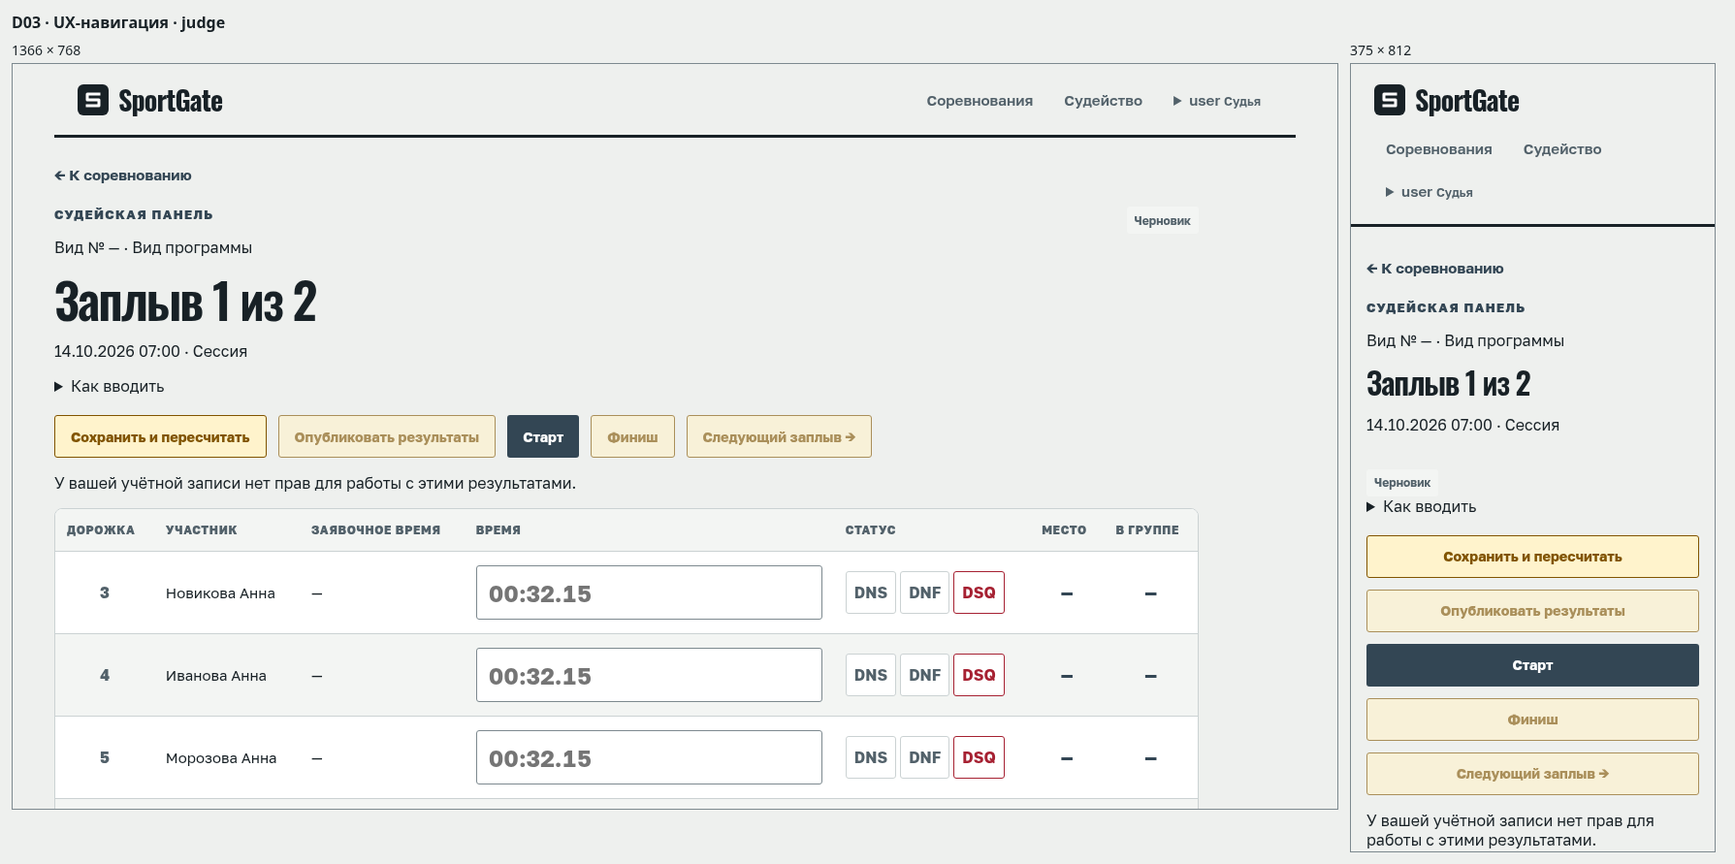
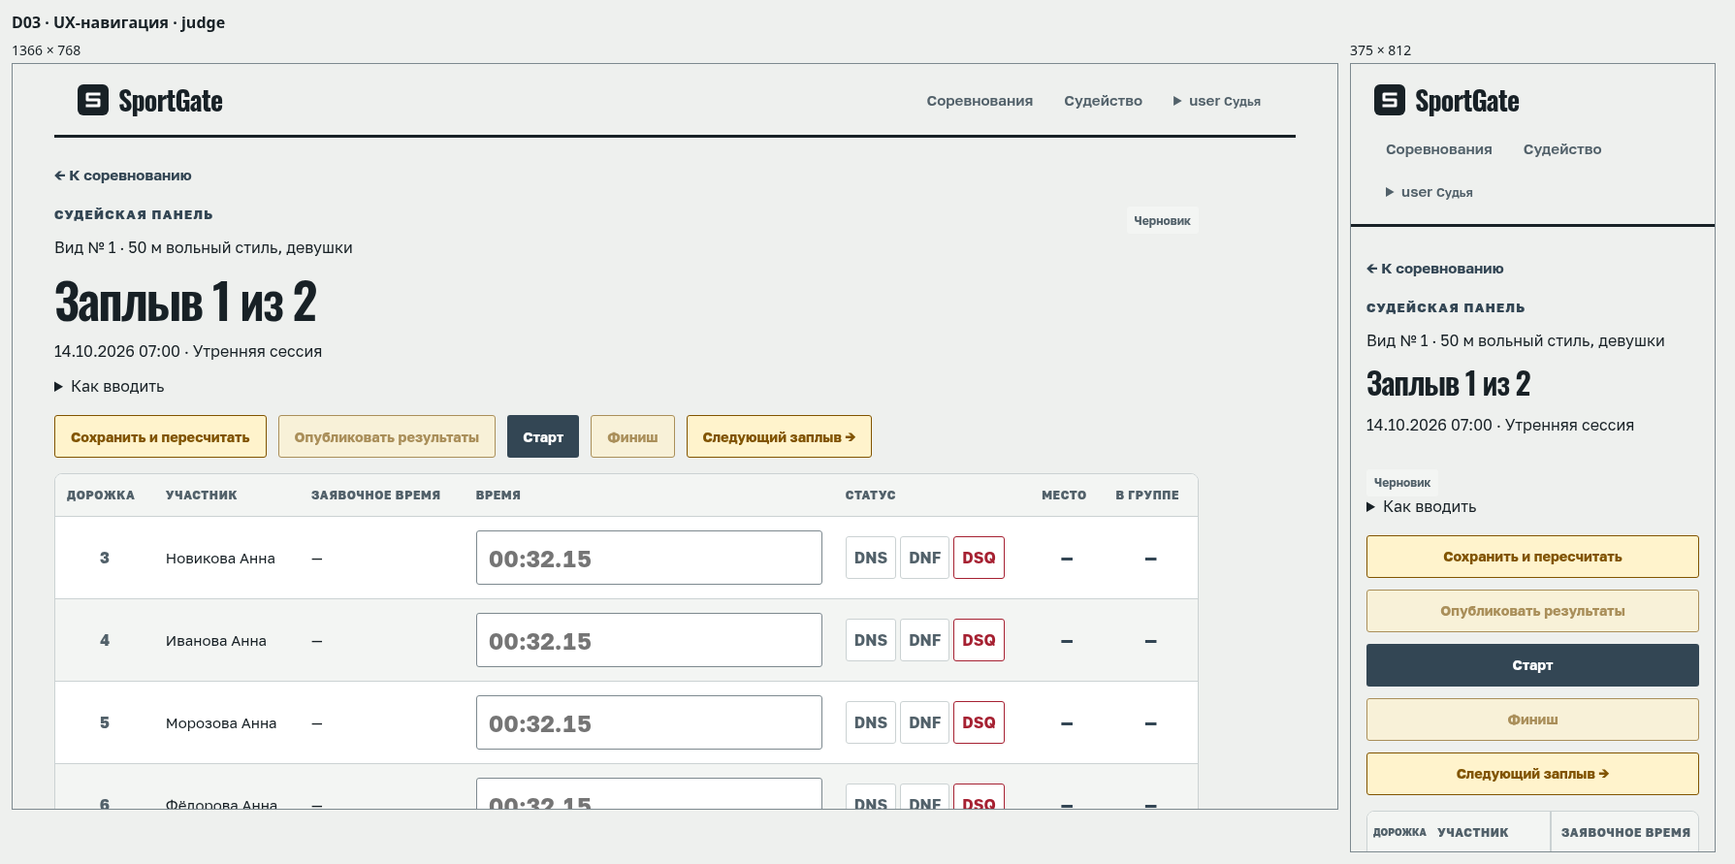
fix(d03): verify demo flow and unify remaining competition labels

diff --git a/sport-platform/frontend/e2e/qa05-demo.spec.ts b/sport-platform/frontend/e2e/qa05-demo.spec.ts
@@ -155,7 +155,13 @@ test('QA05: seven-step demo with a real backend and demo seed', async ({ browser
       await parent.getByRole('button', { name: 'Отправить заявку' }).click()
       const response = await responsePromise
       expect.soft(response.status()).toBe(200)
-      expect.soft(response.request().postDataJSON()).toMatchObject({ profile: { lastName: 'Демов', firstName: 'Тимофей', birthDate: '2014-04-18', gender: 'M' }, items: [ { seedTimeMs: 47200 }, { seedTimeMs: 109500 } ] })
+      const submitted = response.request().postDataJSON()
+      expect.soft(submitted.profile).toMatchObject({ lastName: 'Демов', firstName: 'Тимофей', birthDate: '2014-04-18', gender: 'M' })
+      expect.soft(submitted.items).toHaveLength(2)
+      expect.soft(submitted.items).toEqual(expect.arrayContaining([
+        { eventDisciplineId: event.disciplines.find(d => d.code === 'M-50-FREE')!.id, seedTimeMs: 47200 },
+        { eventDisciplineId: event.disciplines.find(d => d.code === 'M-100-FREE')!.id, seedTimeMs: 109500 },
+      ]))
       await expect(parent.getByRole('heading', { name: 'Заявка отправлена' })).toBeVisible()
       await screenshots(parent, '03-parent-submitted')
       await org.reload()
@@ -239,14 +245,18 @@ test('QA05: seven-step demo with a real backend and demo seed', async ({ browser
         expect.soft(clock).toBe(index === 0 ? '10:00' : '15:00')
       }
       await screenshots(org, '04-heats-validator')
-      // QA05-03: draft print link must contain the generated heats before publication.
+      // Drafts use the authenticated PDF; the public HTML form only contains published heats.
+      await org.getByText('Печать ▾', { exact: true }).click()
+      await expect(org.getByText('Публичная печатная форма появится после публикации. Черновик доступен в PDF.')).toBeVisible()
+      const accessToken = await org.evaluate(() => JSON.parse(sessionStorage.getItem('flounder.auth-session')!).accessToken)
+      const draftPdf = await org.request.get(`http://localhost:8080/api/v1/events/${seed.eventId}/documents/start-list.pdf`, { headers: { Authorization: `Bearer ${accessToken}` } })
+      expect(draftPdf.status()).toBe(200)
+      expect(draftPdf.headers()['content-type']).toContain('application/pdf')
+      const draftBytes = await draftPdf.body()
+      expect(draftBytes.subarray(0, 5).toString()).toBe('%PDF-')
+      expect(draftBytes.length).toBeGreaterThan(1000)
+      await writeFile('work/qa05/draft-start-list.pdf', draftBytes)
       const printPage = await contexts[0].newPage()
-      const printHref = await org.getByRole('link', { name: 'Открыть печатную форму' }).getAttribute('href')
-      await printPage.goto(printHref!)
-      await expect(printPage.getByRole('heading', { name: 'Стартовый протокол', exact: true })).toBeVisible()
-      await expect.soft(printPage.locator('article').filter({ has: printPage.locator('table') }), 'QA05-03: draft print contains generated heats').toHaveCount(heats.length)
-      await screenshots(printPage, '04-draft-print')
-      await pdf(printPage, 'draft-start-list')
       await org.getByRole('button', { name: 'Опубликовать протокол', exact: true }).click()
       await org.getByRole('dialog').getByRole('button', { name: 'Опубликовать', exact: true }).click()
       await settle(org)
@@ -260,6 +270,10 @@ test('QA05: seven-step demo with a real backend and demo seed', async ({ browser
       await expect.soft(spectator.locator('article').filter({ has: spectator.locator('table') })).toHaveCount(heats.length)
       await screenshots(spectator, '04-public-start-list')
       await pdf(spectator, 'start-list')
+      const printHref = await org.getByRole('link', { name: 'Печатная форма' }).getAttribute('href')
+      await printPage.goto(printHref!)
+      await expect(printPage.getByRole('heading', { name: 'Стартовый протокол', exact: true })).toBeVisible()
+      await expect(printPage.locator('article').filter({ has: printPage.locator('table') })).toHaveCount(heats.length)
       await printPage.close()
     })
 
@@ -270,6 +284,8 @@ test('QA05: seven-step demo with a real backend and demo seed', async ({ browser
       await spectator.goto(`${publicBase}/live`)
       await expect(spectator.locator('html')).toHaveAttribute('data-theme', 'dark')
       const current = spectator.locator('section').filter({ has: spectator.getByRole('heading', { name: /^Сейчас заплыв/ }) })
+      // 15s polling plus the existing 10s server cache TTL and response time.
+      await expect(current).toBeVisible({ timeout: 26000 })
       await expect.soft(current).toContainText(ordered[0].label)
       const next = spectator.locator('section').filter({ has: spectator.getByRole('heading', { name: 'Далее', exact: true }) })
       await expect.soft(next.getByRole('listitem')).toHaveCount(3)
@@ -283,9 +299,9 @@ test('QA05: seven-step demo with a real backend and demo seed', async ({ browser
       await expect.configure({ soft: true }).poll(async () => {
         const link = await current.getByRole('link').getAttribute('href')
         return link?.endsWith(`/heats/${ordered[1].id}`)
-      }, { timeout: 15_000, intervals: [250, 500, 1000] }).toBe(true)
+      }, { timeout: 26_000, intervals: [250, 500, 1000] }).toBe(true)
       timings.liveRefresh = Date.now() - start
-      expect.soft(timings.liveRefresh).toBeLessThanOrEqual(15_000)
+      expect.soft(timings.liveRefresh).toBeLessThanOrEqual(26_000)
       const live = await api<Live>(spectator, `/public/events/${seed.slug}/live`)
       expect.soft(live.currentUnit?.id).toBe(ordered[1].id)
       const manifestHref = await spectator.locator('link[rel="manifest"]').getAttribute('href')
@@ -318,7 +334,8 @@ test('QA05: seven-step demo with a real backend and demo seed', async ({ browser
       expect.soft((await registrations()).find(r => r.id === target.registrationId)?.status).toBe('WITHDRAWN')
       await screenshots(org, '06-withdrawn-entry')
       await org.getByRole('navigation', { name: 'Разделы соревнования' }).getByRole('link', { name: 'Заплывы', exact: true }).click()
-      await org.getByRole('button', { name: 'Пересчитать расписание', exact: true }).click()
+      await org.getByText('Расписание ▾', { exact: true }).click()
+      await org.getByRole('button', { name: 'Пересчитать время стартов', exact: true }).click()
       await settle(org)
       await expect.poll(async () => {
         const list = await api<StartList>(spectator, `/public/events/${seed.slug}/start-list`)

diff --git a/sport-platform/frontend/src/features/admin/OrganizationsAdminPage.tsx b/sport-platform/frontend/src/features/admin/OrganizationsAdminPage.tsx
@@ -49,9 +49,9 @@ export function OrganizationsAdminPage() {
     <div className={styles.heading}><h1>Организации</h1><button onClick={() => { setOpen(true); setFormError('') }}>Создать организацию</button></div>
     {loading ? <p role="status">Загружаем организации…</p> : error ? <p role="alert" className={styles.error}>{error} <button onClick={() => setReload(value => value + 1)}>Повторить</button></p>
       : !organizations.length ? <p className="fl-empty">Организаций пока нет — создайте первую.</p> : <table className={styles.table}>
-        <thead><tr><th>Название</th><th>Город</th><th>Владелец</th><th>Членов / события</th></tr></thead>
+        <thead><tr><th>Название</th><th>Город</th><th>Владелец</th><th>Членов / соревнования</th></tr></thead>
         <tbody>{organizations.map(org => <tr key={org.id}><td><Link to={`/admin/organizations/${org.id}`}>{org.name}</Link></td>
-          <td>{org.city || '—'}</td><td>{org.owner || 'Не назначен'}</td><td>{org.memberCount ?? '—'}<br /><Link to={`/admin/organizations/${org.id}#events`}>События</Link></td></tr>)}</tbody>
+          <td>{org.city || '—'}</td><td>{org.owner || 'Не назначен'}</td><td>{org.memberCount ?? '—'}<br /><Link to={`/admin/organizations/${org.id}#events`}>Соревнования</Link></td></tr>)}</tbody>
       </table>}
     {open && <AdminDialog title="Создать организацию" busy={busy} onClose={() => setOpen(false)}>
       <form className={styles.form} onSubmit={submit}><fieldset className={styles.form} disabled={busy}>
@@ -123,9 +123,9 @@ export function OrganizationAdminPage() {
           <td>{memberRoles.find(([code]) => code === member.memberRole)?.[1] ?? member.memberRole}</td><td className={styles.actions}>
             <button onClick={() => open({ type: 'edit', member })}>Изменить роль</button><button onClick={() => open({ type: 'delete', member })}>Удалить</button></td></tr>)}</tbody>
       </table>}
-    <h2 id="events">События организации</h2>
+    <h2 id="events">Соревнования организации</h2>
     {eventError ? <p role="alert" className={styles.error}>{eventError}</p> : events.length ? <ul>{events.map(event =>
-      <li key={event.id}><Link to={`/organizer/events/${event.id}`}>{event.title}</Link></li>)}</ul> : <p className="fl-empty">Событий пока нет.</p>}
+      <li key={event.id}><Link to={`/organizer/events/${event.id}`}>{event.title}</Link></li>)}</ul> : <p className="fl-empty">Соревнований пока нет.</p>}
     {action && <AdminDialog title={action.type === 'add' ? 'Добавить участника' : action.type === 'edit' ? 'Изменить роль' : 'Удалить участника'} busy={busy} onClose={() => setAction(null)}>
       <form className={styles.form} onSubmit={submit}><fieldset disabled={busy} className={styles.form}>
         {action.type === 'add' ? <label>Email пользователя<input name="email" type="email" required /></label> : <p>{action.member.email}</p>}

diff --git a/sport-platform/frontend/src/features/public/RegistrationPage.tsx b/sport-platform/frontend/src/features/public/RegistrationPage.tsx
@@ -184,10 +184,10 @@ export function PublicRegistrationPage() {
             <legend>Данные спортсмена (ребёнка)</legend>
             <button type="button" onClick={() => { void (async () => {
               const cached = email && sessionStorage.getItem(`sportgate.profile.${email}`)
-              if (cached) { setProfile(JSON.parse(cached) as typeof profile); return }
+              if (cached) { setProfile(previous => ({ ...previous, ...JSON.parse(cached) as Partial<typeof profile> })); return }
               const rows = await getMyRegistrations(auth.session!.accessToken)
               const own = rows[0]?.participantSnapshot
-              if (own) setProfile({ firstName: own.firstName, lastName: own.lastName, middleName: own.middleName ?? '', birthDate: own.birthDate ?? '', gender: own.gender === 'F' ? 'F' : 'M', club: own.clubName ?? '' })
+              if (own) setProfile({ firstName: own.firstName, lastName: own.lastName, middleName: own.middleName ?? '', birthDate: own.birthDate ?? '', gender: own.gender === 'F' ? 'F' : own.gender === 'M' ? 'M' : profile.gender, club: own.clubName ?? '' })
               else setErrors(previous => ({ ...previous, form: 'В профиле пока нет данных спортсмена. Заполните их ниже.' }))
             })().catch(() => setErrors(previous => ({ ...previous, form: 'Не удалось загрузить профиль. Заполните данные ниже.' }))) }}>Это я</button>
             {[

diff --git a/sport-platform/frontend/e2e/qa06-regression.spec.ts b/sport-platform/frontend/e2e/qa06-regression.spec.ts
@@ -5,8 +5,6 @@ declare global {
   interface Window { __qa06Scroll: unknown[]; __qa06LiveCalls: number }
 }
 
-// Expected failures keep the audit runnable. QA06_EXPECT_FIX=1 exposes the red tests.
-function knownDefect() { test.fail(process.env.QA06_EXPECT_FIX !== '1') }
 const base = `/organizer/events/${eventId}`
 
 for (const path of ['/organizer/events?all=1', '/operator/payments', '/events/demo/disciplines/M-50-FREE/results']) {
@@ -53,7 +51,6 @@ test('QA06-04 table headings use the readable muted token', async ({ page }) => 
 test('QA06-06 dates use DD.MM.YYYY', async ({ page }) => {
   await openAuditPage(page, '/e/demo')
   await expect(page.getByRole('heading', { level: 1 })).toContainText('Осенний кубок')
-  knownDefect()
   await expect(page.locator('header')).toContainText('15.10.2026')
 })
 
@@ -225,8 +222,7 @@ test('QA06-18 payment loading is announced as a status', async ({ page }) => {
     dispatchEvent(new PopStateEvent('popstate'))
   })
   await expect(page.getByRole('heading', { name: 'Загружаем оплату', exact: true })).toBeVisible()
-  knownDefect()
-  await expect(page.getByRole('status')).toContainText('Загружаем оплату')
+  await expect(page.getByRole('status').filter({ hasText: 'Загружаем оплату' })).toContainText('Загружаем оплату')
 })
 
 test('QA06-20 Samara starts keep venue time in a Moscow browser', async ({ page }) => {

diff --git a/sport-platform/frontend/src/features/admin/UsersAdminPage.tsx b/sport-platform/frontend/src/features/admin/UsersAdminPage.tsx
@@ -148,7 +148,7 @@ export function UsersAdminPage() {
         </>}
         {action.type === 'password' && passwordFields}
         {action.type === 'roles' && <><p>Глобальные роли пользователя</p>{roleCheckboxes}
-          {scopedRoles.length > 0 && <p>Роли в отдельных организациях или событиях: {scopedRoles.join(', ')}. Они сохраняются при изменении глобальных ролей.</p>}
+          {scopedRoles.length > 0 && <p>Роли в отдельных организациях или соревнованиях: {scopedRoles.join(', ')}. Они сохраняются при изменении глобальных ролей.</p>}
         </>}
         {removesAdmin && <label><span><input type="checkbox" checked={confirmed} onChange={event => setConfirmed(event.target.checked)} /> Подтверждаю снятие роли администратора платформы</span></label>}
         {action.type === 'status' && <p>{action.user.status === 'ACTIVE' ? 'Заблокировать пользователя? Вход и существующие токены станут недоступны.' : 'Разблокировать пользователя?'}</p>}

diff --git a/sport-platform/frontend/src/features/regulations/CreateRegulationPage.tsx b/sport-platform/frontend/src/features/regulations/CreateRegulationPage.tsx
@@ -176,7 +176,7 @@ export function CreateRegulationPage() {
   return (
     <section className={styles.page}>
       <NavLink className={styles.backLink} to="/organizer/events/new">
-        ← Вернуться к созданию мероприятия
+        ← Вернуться к созданию соревнования
       </NavLink>
 
       <p className={styles.eyebrow}>Панель организатора</p>
@@ -184,12 +184,12 @@ export function CreateRegulationPage() {
       <div className={styles.header}>
         <div>
           <h1 className={styles.title}>
-            Новый регламент
+            Регламенты
           </h1>
 
           <p className={styles.description}>
-            После сохранения регламент будет опубликован
-            и станет доступен при создании мероприятия.
+            Положение можно прикрепить к соревнованию позже. После сохранения регламент будет опубликован
+            и станет доступен при создании соревнования.
           </p>
         </div>
       </div>

diff --git a/sport-platform/frontend/src/features/organizer/OrganizerHeatsPage.tsx b/sport-platform/frontend/src/features/organizer/OrganizerHeatsPage.tsx
@@ -132,7 +132,7 @@ export function OrganizerHeatsPage() {
           </details>
           <button disabled={busy || !heats.length || event.status === 'ARCHIVED'} onClick={() => setPublishOpen(true)}>Опубликовать протокол</button>
           <details><summary>Печать ▾</summary>
-            <a className={styles.button} href={`/e/${encodeURIComponent(event.publicSlug)}/start-list?print=1`} target="_blank" rel="noreferrer">Печатная форма</a>
+            {heats.length > 0 && heats.every(heat => isHeatPublished(heat.status)) ? <a className={styles.button} href={`/e/${encodeURIComponent(event.publicSlug)}/start-list?print=1`} target="_blank" rel="noreferrer">Печатная форма</a> : <p>Публичная печатная форма появится после публикации. Черновик доступен в PDF.</p>}
             <PdfDownloadButton path={`/api/v1/events/${event.id}/documents/start-list.pdf`} filename="Стартовый-протокол.pdf" accessToken={accessToken} disabled={busy || !heats.length} />
           </details>
         </div>

diff --git a/sport-platform/frontend/src/features/public/Timezone.test.tsx b/sport-platform/frontend/src/features/public/Timezone.test.tsx
@@ -18,7 +18,7 @@ const startsAt = '2026-10-17T06:00:00Z'
 it('formats public time and date in the venue timezone', () => {
   expect(time(startsAt, 'Europe/Samara')).toBe('10:00')
   expect(time(startsAt, 'Europe/Moscow')).toBe('09:00')
-  expect(date('2026-10-16T22:00:00Z', 'Europe/Samara')).toBe('17 октября 2026 г.')
+  expect(date('2026-10-16T22:00:00Z', 'Europe/Samara')).toBe('17.10.2026')
   expect(time(null, 'Europe/Samara')).toBe('Время уточняется')
 })
 
@@ -84,7 +84,7 @@ it.each(pages)('passes the venue timezone from PublicLayout to /e/demo/%s', asyn
       </Routes>
     </MemoryRouter>,
   )
-  expect(await screen.findByText('17 октября 2026 г. · Самара')).toBeInTheDocument()
+  expect(await screen.findByText('17.10.2026 · Самара')).toBeInTheDocument()
   if (path !== 'results') {
     expect((await screen.findAllByText(/10:00/)).length).toBeGreaterThan(0)
   }

diff --git a/sport-platform/frontend/src/features/auth/RegisterPage.tsx b/sport-platform/frontend/src/features/auth/RegisterPage.tsx
@@ -95,7 +95,7 @@ export function RegisterPage() {
         clubName: clubName.trim() || null,
       })
 
-      sessionStorage.setItem(`sportgate.profile.${normalizedEmail}`, JSON.stringify({ firstName: firstName.trim(), lastName: lastName.trim(), middleName: middleName.trim(), birthDate, gender: 'M', club: clubName.trim() }))
+      sessionStorage.setItem(`sportgate.profile.${normalizedEmail}`, JSON.stringify({ firstName: firstName.trim(), lastName: lastName.trim(), middleName: middleName.trim(), birthDate, club: clubName.trim() }))
       await login({
         email: normalizedEmail,
         password,
@@ -112,7 +112,7 @@ export function RegisterPage() {
   return (
     <section className={styles.page}>
       <Link className={styles.backLink} to="/">
-        ← К событиям
+        ← К соревнованиям
       </Link>
 
       <div className={styles.card}>

diff --git a/sport-platform/frontend/src/features/payments/OperatorPaymentsPage.tsx b/sport-platform/frontend/src/features/payments/OperatorPaymentsPage.tsx
@@ -115,7 +115,7 @@ export function OperatorPaymentsPage() {
               <thead>
                 <tr>
                   <th scope="col">Заявка</th>
-                  <th scope="col">Событие</th>
+                  <th scope="col">Соревнование</th>
                   <th scope="col">Статус</th>
                   <th scope="col">
                     <span className={styles.visuallyHidden}>Действия</span>
@@ -137,7 +137,7 @@ export function OperatorPaymentsPage() {
                     </td>
 
                     <td>
-                      <strong className={styles.eventLabel}>Событие</strong>
+                      <strong className={styles.eventLabel}>Соревнование</strong>
 
                       <span className={styles.registrationId}>
                         {registration.eventId}

diff --git a/sport-platform/frontend/src/features/admin/UsersAdminPage.test.tsx b/sport-platform/frontend/src/features/admin/UsersAdminPage.test.tsx
@@ -84,7 +84,7 @@ it('keeps scoped assignments separate from editable global roles', async () => {
   const row = (await screen.findByText('user@flounder.demo')).closest('tr')!
   await userEvent.click(within(row).getByRole('button', { name: 'Роли' }))
   const dialog = screen.getByRole('dialog')
-  expect(await within(dialog).findByText(/Роли в отдельных организациях или событиях/)).toBeInTheDocument()
+  expect(await within(dialog).findByText(/Роли в отдельных организациях или соревнованиях/)).toBeInTheDocument()
   expect(within(dialog).getByLabelText('Участник')).toBeChecked()
   expect(within(dialog).getByLabelText('Судья')).not.toBeChecked()
 })

diff --git a/sport-platform/frontend/src/features/registrations/RegistrationPage.tsx b/sport-platform/frontend/src/features/registrations/RegistrationPage.tsx
@@ -19,7 +19,7 @@ function getRegistrationErrorMessage(error: unknown) {
     'registrations.discipline_not_available':
       'Эта дисциплина сейчас недоступна для регистрации.',
     'registrations.registration_not_open':
-      'Регистрация на это событие сейчас не открыта.',
+      'Регистрация на это соревнование сейчас не открыта.',
   }
 
   return knownMessages[error.code ?? ''] ?? error.message
